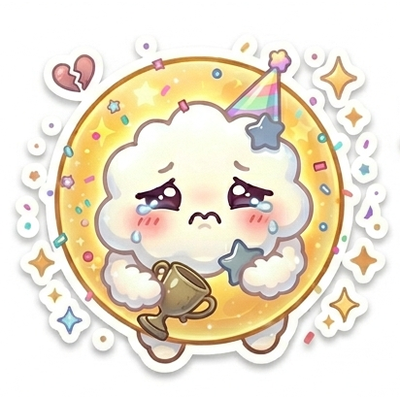
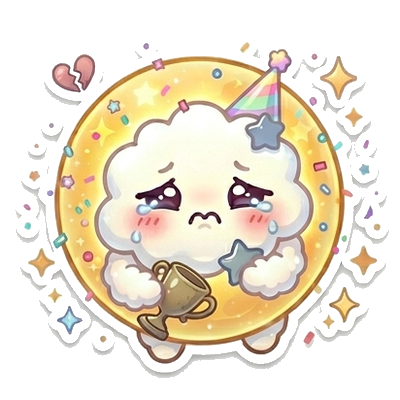
캐릭터 8개 배경 투명 처리 + 메인 캐릭터 스타일 적용

diff --git a/nonsense-quiz/index.html b/nonsense-quiz/index.html
@@ -121,18 +121,21 @@ html.dark .mascot-img {
 
 /* 반응 캐릭터 (퀴즈 화면) */
 .react-char {
-  width: 100px; height: 100px; object-fit: contain;
+  width: 110px; height: 110px; object-fit: contain;
   display: block; margin: 0 auto 6px;
-  filter: drop-shadow(0 4px 12px rgba(56,189,248,0.35));
+  filter: drop-shadow(0 6px 18px rgba(255,255,255,0.6)) drop-shadow(0 2px 8px rgba(14,165,233,0.35));
   animation: bounce 2.4s ease-in-out infinite;
-  transition: opacity 0.15s;
+  transition: filter 0.3s;
+}
+html.dark .react-char {
+  filter: drop-shadow(0 6px 20px rgba(56,189,248,0.65)) brightness(0.92);
 }
 .react-char.pop {
   animation: charPop 0.35s cubic-bezier(.4,0,.2,1), bounce 2.4s ease-in-out 0.35s infinite;
 }
 @keyframes charPop {
   0%  { transform: scale(0.65); opacity: 0.4; }
-  65% { transform: scale(1.12); }
+  65% { transform: scale(1.14); }
   100%{ transform: scale(1);    opacity: 1; }
 }
 
@@ -140,8 +143,11 @@ html.dark .mascot-img {
 .result-char {
   width: 190px; height: 190px; object-fit: contain;
   display: block; margin: 0 auto 10px;
-  filter: drop-shadow(0 6px 18px rgba(56,189,248,0.4));
+  filter: drop-shadow(0 6px 22px rgba(255,255,255,0.6)) drop-shadow(0 2px 10px rgba(14,165,233,0.4));
   animation: bounce 2s ease-in-out infinite;
+}
+html.dark .result-char {
+  filter: drop-shadow(0 6px 24px rgba(56,189,248,0.7)) brightness(0.9);
 }
 
 /* 타이틀 */
